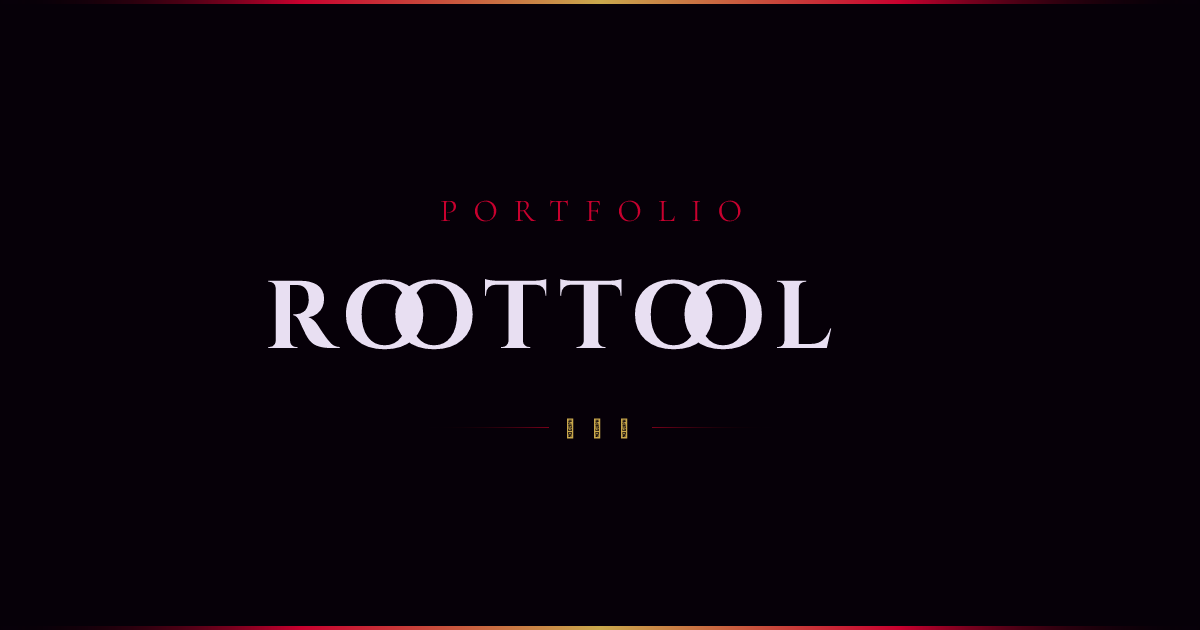
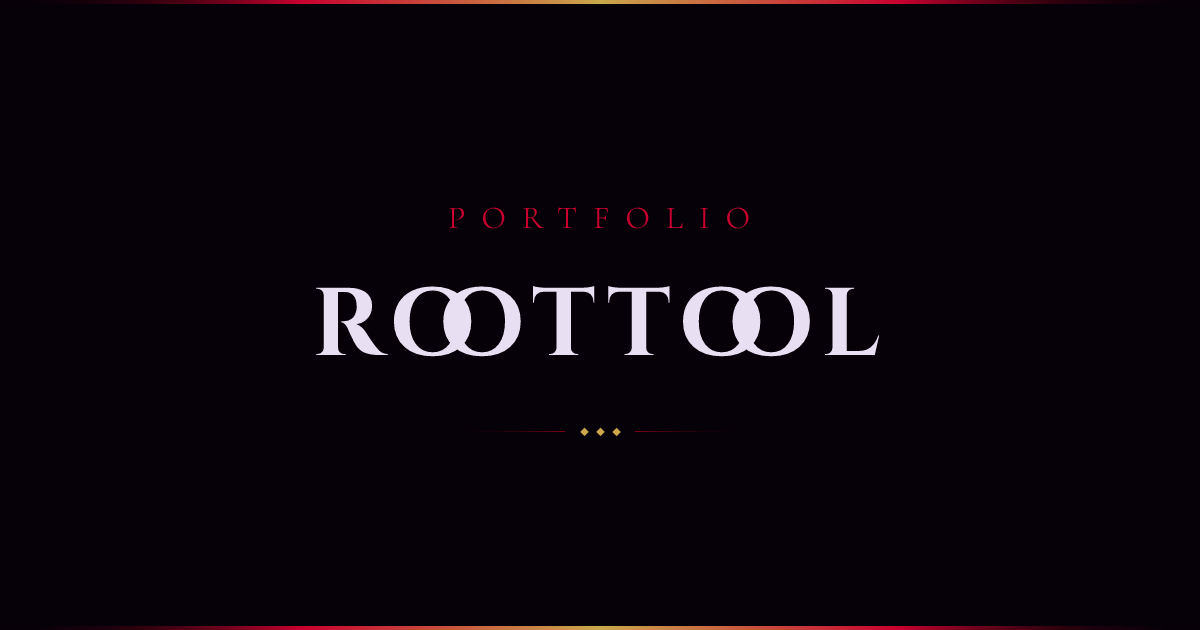
fix: center text and align divider in OG image

Changed region(s): [[0.2158, 0.4222, 0.74, 0.573], [0.37, 0.3016, 0.6167, 0.3619], [0.4625, 0.6635, 0.5242, 0.6937]]

diff --git a/scripts/generate-og.ts b/scripts/generate-og.ts
@@ -8,162 +8,198 @@ const __dirname = path.dirname(fileURLToPath(import.meta.url));
 const ROOT = path.resolve(__dirname, "..");
 
 const cinzelData = fs.readFileSync(
-	path.join(
-		ROOT,
-		"node_modules/@fontsource/cinzel-decorative/files/cinzel-decorative-latin-700-normal.woff",
-	),
+  path.join(
+    ROOT,
+    "node_modules/@fontsource/cinzel-decorative/files/cinzel-decorative-latin-700-normal.woff",
+  ),
 );
 const cormorantData = fs.readFileSync(
-	path.join(
-		ROOT,
-		"node_modules/@fontsource/cormorant-garamond/files/cormorant-garamond-latin-400-normal.woff",
-	),
+  path.join(
+    ROOT,
+    "node_modules/@fontsource/cormorant-garamond/files/cormorant-garamond-latin-400-normal.woff",
+  ),
 );
 
 const svg = await satori(
-	{
-		type: "div",
-		props: {
-			style: {
-				width: "100%",
-				height: "100%",
-				display: "flex",
-				flexDirection: "column",
-				alignItems: "center",
-				justifyContent: "center",
-				backgroundColor: "#060008",
-				position: "relative",
-			},
-			children: [
-				// Top border ornament
-				{
-					type: "div",
-					props: {
-						style: {
-							position: "absolute",
-							top: 0,
-							left: 0,
-							right: 0,
-							height: "4px",
-							background:
-								"linear-gradient(90deg, transparent, #c8002e, #c9a84c, #c8002e, transparent)",
-						},
-					},
-				},
-				// Bottom border ornament
-				{
-					type: "div",
-					props: {
-						style: {
-							position: "absolute",
-							bottom: 0,
-							left: 0,
-							right: 0,
-							height: "4px",
-							background:
-								"linear-gradient(90deg, transparent, #c8002e, #c9a84c, #c8002e, transparent)",
-						},
-					},
-				},
-				// Subtitle
-				{
-					type: "div",
-					props: {
-						style: {
-							fontFamily: "'Cormorant Garamond'",
-							fontSize: 32,
-							letterSpacing: "0.5em",
-							color: "#c8002e",
-							textTransform: "uppercase",
-							marginBottom: 24,
-						},
-						children: "Portfolio",
-					},
-				},
-				// Main title
-				{
-					type: "div",
-					props: {
-						style: {
-							fontFamily: "'Cinzel Decorative'",
-							fontWeight: 700,
-							fontSize: 96,
-							letterSpacing: "0.1em",
-							color: "#e8dff2",
-						},
-						children: "roottool",
-					},
-				},
-				// Decorative divider
-				{
-					type: "div",
-					props: {
-						style: {
-							display: "flex",
-							alignItems: "center",
-							gap: 16,
-							marginTop: 32,
-						},
-						children: [
-							{
-								type: "div",
-								props: {
-									style: {
-										width: 120,
-										height: 1,
-										background: "linear-gradient(90deg, transparent, #7a0019)",
-									},
-								},
-							},
-							{
-								type: "div",
-								props: {
-									style: {
-										color: "#c9a84c",
-										fontSize: 20,
-										letterSpacing: "0.3em",
-									},
-									children: "✦ ✦ ✦",
-								},
-							},
-							{
-								type: "div",
-								props: {
-									style: {
-										width: 120,
-										height: 1,
-										background: "linear-gradient(90deg, #7a0019, transparent)",
-									},
-								},
-							},
-						],
-					},
-				},
-			],
-		},
-	},
-	{
-		width: 1200,
-		height: 630,
-		fonts: [
-			{
-				name: "Cinzel Decorative",
-				data: cinzelData,
-				weight: 700,
-				style: "normal",
-			},
-			{
-				name: "Cormorant Garamond",
-				data: cormorantData,
-				weight: 400,
-				style: "normal",
-			},
-		],
-	},
+  {
+    type: "div",
+    props: {
+      style: {
+        width: "100%",
+        height: "100%",
+        display: "flex",
+        flexDirection: "column",
+        alignItems: "center",
+        justifyContent: "center",
+        backgroundColor: "#060008",
+        position: "relative",
+      },
+      children: [
+        // Top border ornament
+        {
+          type: "div",
+          props: {
+            style: {
+              position: "absolute",
+              top: 0,
+              left: 0,
+              right: 0,
+              height: "4px",
+              background:
+                "linear-gradient(90deg, transparent, #c8002e, #c9a84c, #c8002e, transparent)",
+            },
+          },
+        },
+        // Bottom border ornament
+        {
+          type: "div",
+          props: {
+            style: {
+              position: "absolute",
+              bottom: 0,
+              left: 0,
+              right: 0,
+              height: "4px",
+              background:
+                "linear-gradient(90deg, transparent, #c8002e, #c9a84c, #c8002e, transparent)",
+            },
+          },
+        },
+        // Subtitle
+        {
+          type: "div",
+          props: {
+            style: {
+              fontFamily: "'Cormorant Garamond'",
+              fontSize: 32,
+              letterSpacing: "0.5em",
+              paddingLeft: "0.5em",
+              color: "#c8002e",
+              textTransform: "uppercase",
+              marginBottom: 24,
+            },
+            children: "Portfolio",
+          },
+        },
+        // Main title
+        {
+          type: "div",
+          props: {
+            style: {
+              fontFamily: "'Cinzel Decorative'",
+              fontWeight: 700,
+              fontSize: 96,
+              letterSpacing: "0.1em",
+              paddingLeft: "1em",
+              color: "#e8dff2",
+            },
+            children: "roottool",
+          },
+        },
+        // Decorative divider
+        {
+          type: "div",
+          props: {
+            style: {
+              display: "flex",
+              alignItems: "flex-end",
+              gap: 16,
+              marginTop: 36,
+            },
+            children: [
+              {
+                type: "div",
+                props: {
+                  style: {
+                    width: 120,
+                    height: 1,
+                    background: "linear-gradient(90deg, transparent, #7a0019)",
+                  },
+                },
+              },
+              {
+                type: "div",
+                props: {
+                  style: {
+                    display: "flex",
+                    alignItems: "center",
+                    gap: 10,
+                  },
+                  children: [
+                    {
+                      type: "div",
+                      props: {
+                        style: {
+                          width: 6,
+                          height: 6,
+                          backgroundColor: "#c9a84c",
+                          transform: "rotate(45deg)",
+                        },
+                      },
+                    },
+                    {
+                      type: "div",
+                      props: {
+                        style: {
+                          width: 6,
+                          height: 6,
+                          backgroundColor: "#c9a84c",
+                          transform: "rotate(45deg)",
+                        },
+                      },
+                    },
+                    {
+                      type: "div",
+                      props: {
+                        style: {
+                          width: 6,
+                          height: 6,
+                          backgroundColor: "#c9a84c",
+                          transform: "rotate(45deg)",
+                        },
+                      },
+                    },
+                  ],
+                },
+              },
+              {
+                type: "div",
+                props: {
+                  style: {
+                    width: 120,
+                    height: 1,
+                    background: "linear-gradient(90deg, #7a0019, transparent)",
+                  },
+                },
+              },
+            ],
+          },
+        },
+      ],
+    },
+  },
+  {
+    width: 1200,
+    height: 630,
+    fonts: [
+      {
+        name: "Cinzel Decorative",
+        data: cinzelData,
+        weight: 700,
+        style: "normal",
+      },
+      {
+        name: "Cormorant Garamond",
+        data: cormorantData,
+        weight: 400,
+        style: "normal",
+      },
+    ],
+  },
 );
 
 const resvg = new Resvg(svg, {
-	fitTo: { mode: "width", value: 1200 },
+  fitTo: { mode: "width", value: 1200 },
 });
 const png = resvg.render().asPng();
 
